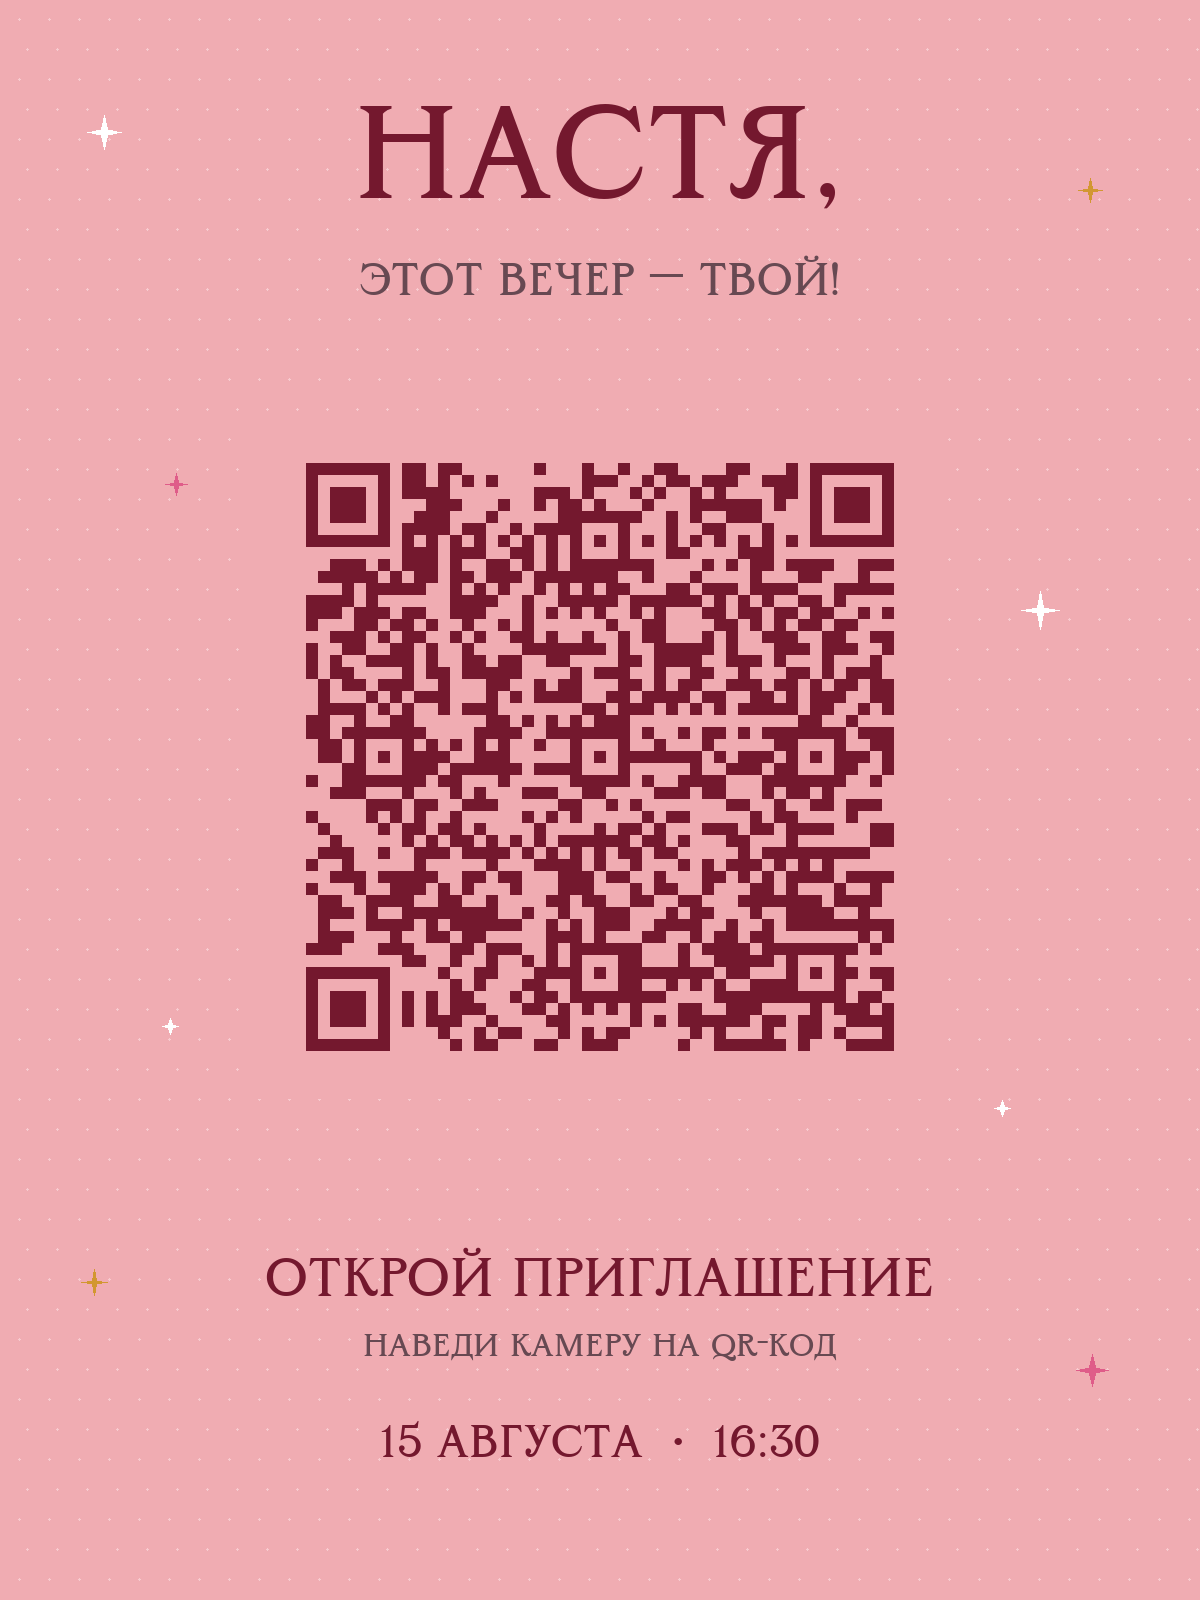
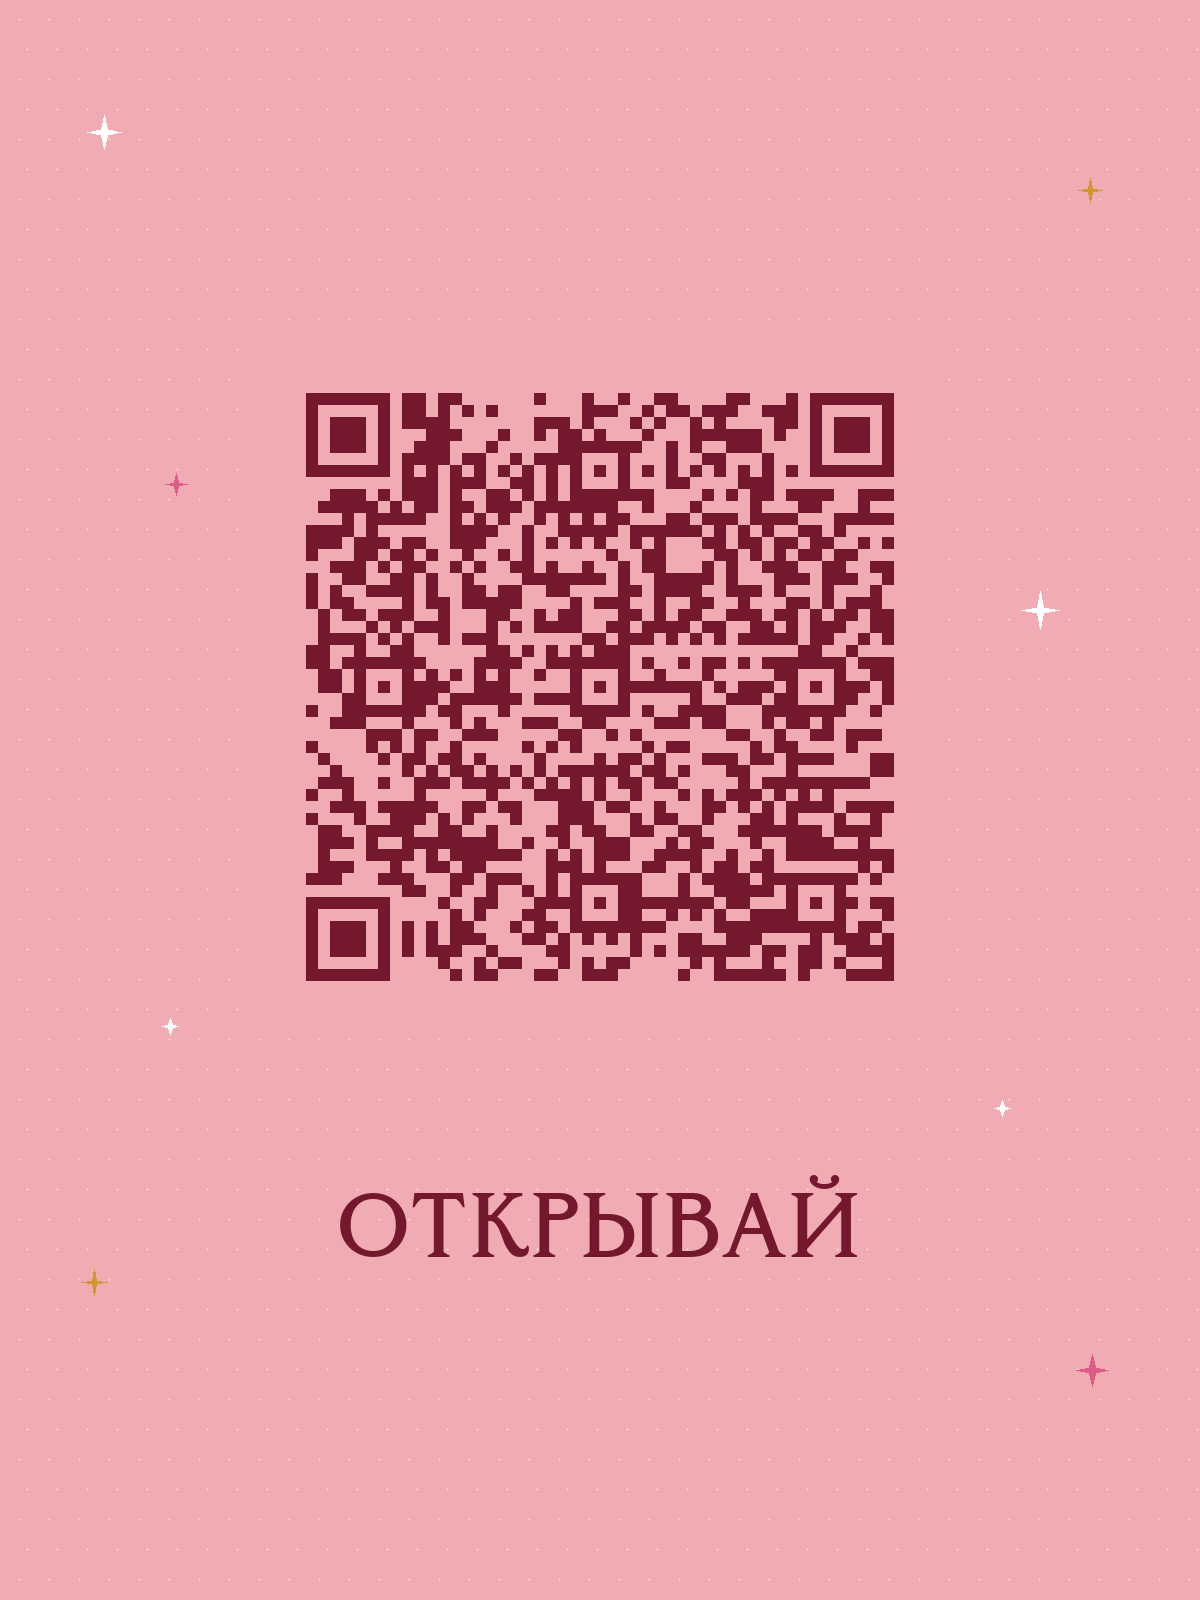
Simplify QR share card

diff --git a/tools/generate_site_qr.py b/tools/generate_site_qr.py
@@ -81,22 +81,14 @@ def build_share_card(qr_image: Image.Image) -> Image.Image:
     for star in stars:
         draw_star(draw, *star)
 
-    title_font = ImageFont.truetype(str(FONT), 132)
-    subtitle_font = ImageFont.truetype(str(FONT), 45)
-    label_font = ImageFont.truetype(str(FONT), 54)
-    small_font = ImageFont.truetype(str(FONT), 32)
-
-    centered_text(draw, 105, "НАСТЯ,", title_font, "#74182e")
-    centered_text(draw, 263, "ЭТОТ ВЕЧЕР — ТВОЙ!", subtitle_font, "#674952")
+    label_font = ImageFont.truetype(str(FONT), 92)
 
     qr_size = qr_image.width
     qr_x = (CARD_SIZE[0] - qr_size) // 2
-    qr_y = 415
+    qr_y = 345
     card.paste(qr_image, (qr_x, qr_y))
 
-    centered_text(draw, 1258, "ОТКРОЙ ПРИГЛАШЕНИЕ", label_font, "#74182e")
-    centered_text(draw, 1333, "НАВЕДИ КАМЕРУ НА QR-КОД", small_font, "#674952")
-    centered_text(draw, 1425, "15 АВГУСТА  •  16:30", subtitle_font, "#74182e")
+    centered_text(draw, 1192, "ОТКРЫВАЙ", label_font, "#74182e")
     return card
 
 
